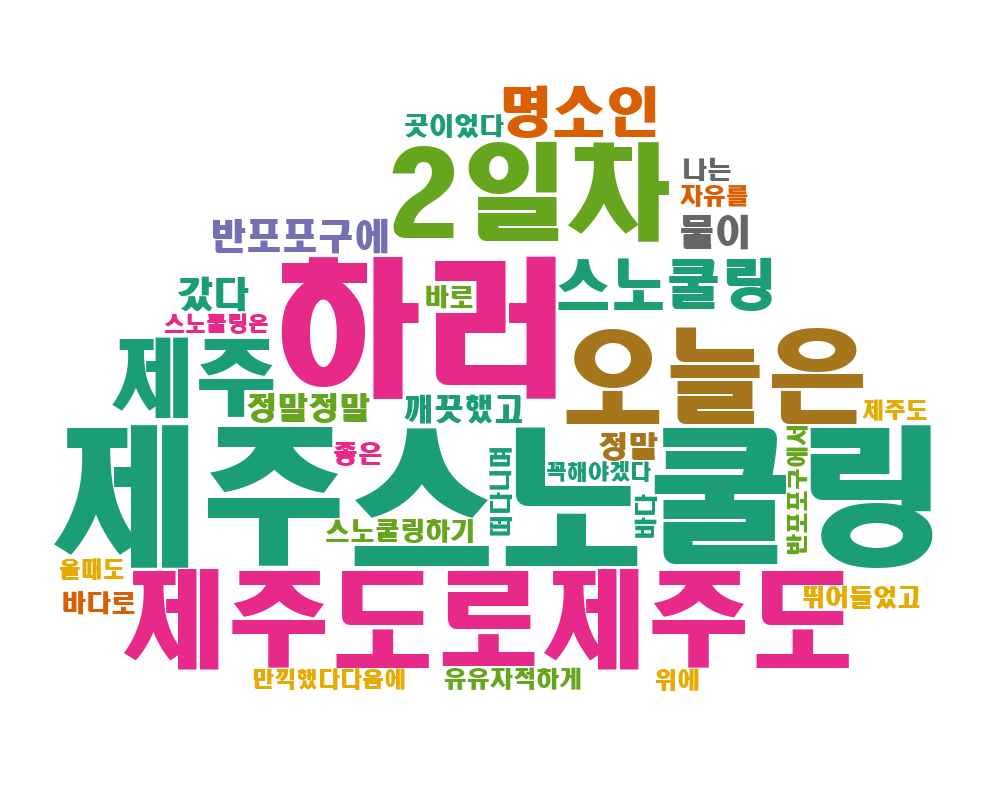
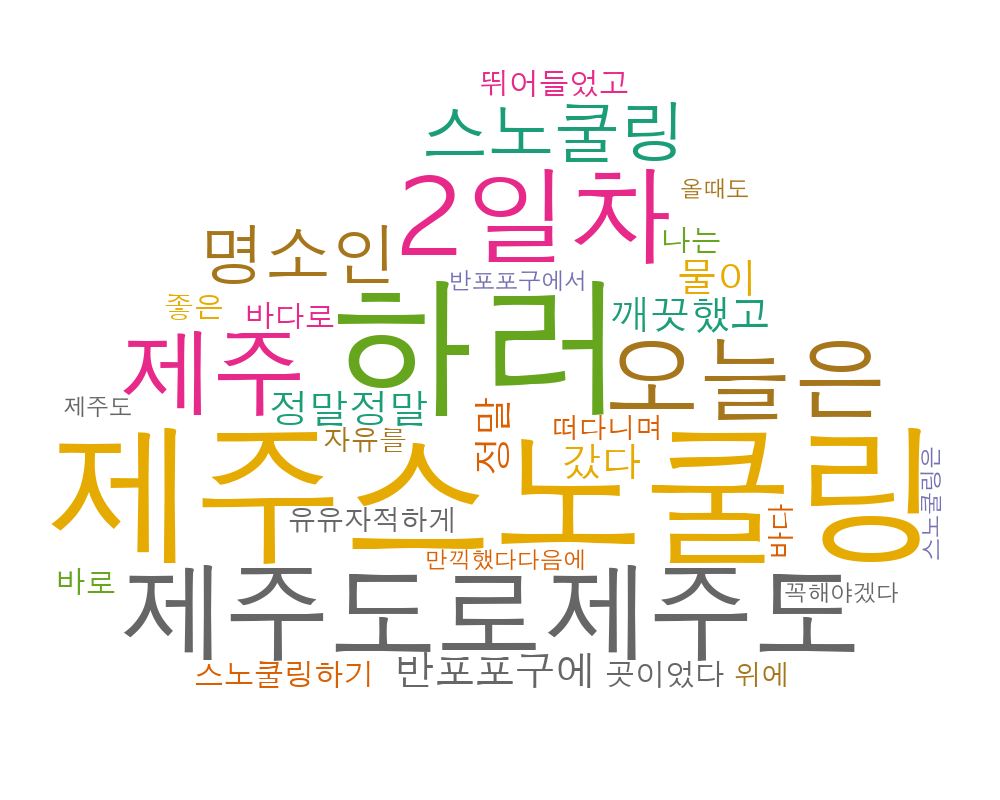
font commit

Changed region(s): [[0.031, 0.0938, 0.961, 0.875]]

diff --git a/templates/about.html b/templates/about.html
@@ -24,7 +24,7 @@
 
     <!-- 구글폰트 -->
     <link
-            href="https://fonts.googleapis.com/css?family=Stylish&display=swap"
+            href="https://fonts.googleapis.com/css2?family=IBM+Plex+Sans+KR:wght@300&family=Nanum+Gothic&display=swap"
             rel="stylesheet"
     />
 

diff --git a/templates/index.html b/templates/index.html
@@ -70,7 +70,7 @@
 
     <!-- 구글폰트 -->
     <link
-            href="https://fonts.googleapis.com/css?family=Stylish&display=swap"
+            href="https://fonts.googleapis.com/css2?family=IBM+Plex+Sans+KR:wght@300&family=Nanum+Gothic&display=swap"
             rel="stylesheet"
     />
 

diff --git a/templates/write.html b/templates/write.html
@@ -28,7 +28,7 @@
 
     <!-- 구글폰트 -->
     <link
-            href="https://fonts.googleapis.com/css?family=Stylish&display=swap"
+            href="https://fonts.googleapis.com/css2?family=IBM+Plex+Sans+KR:wght@300&family=Nanum+Gothic&display=swap"
             rel="stylesheet"
     />
 

diff --git a/static/mystyle.css b/static/mystyle.css
@@ -1,5 +1,6 @@
 * {
-    font-family: 'Noto Serif KR', serif;
+    font-family: 'IBM Plex Sans KR', sans-serif;
+
 }
 
 .sitetop {

diff --git a/app.py b/app.py
@@ -102,9 +102,9 @@ palettes = ['Pastel1', 'Pastel2', 'Set1', 'Set2', 'Set3', 'Paired', 'Accent', 'D
 
 wc = WordCloud(background_color='white',
                # 윈도우 폰트
-               font_path='C:/Windows/Fonts/HMKMRHD.ttf',
+               # font_path='C:/Windows/Fonts/HMKMRHD.ttf',
                # 맥 폰트
-               # font_path='C:/System/Library/Fonts/Supplemental/AppleGothic.ttf',
+               font_path='C:/System/Library/Fonts/Supplemental/AppleGothic.ttf',
                mask=mask,
                colormap='Dark2')
 
